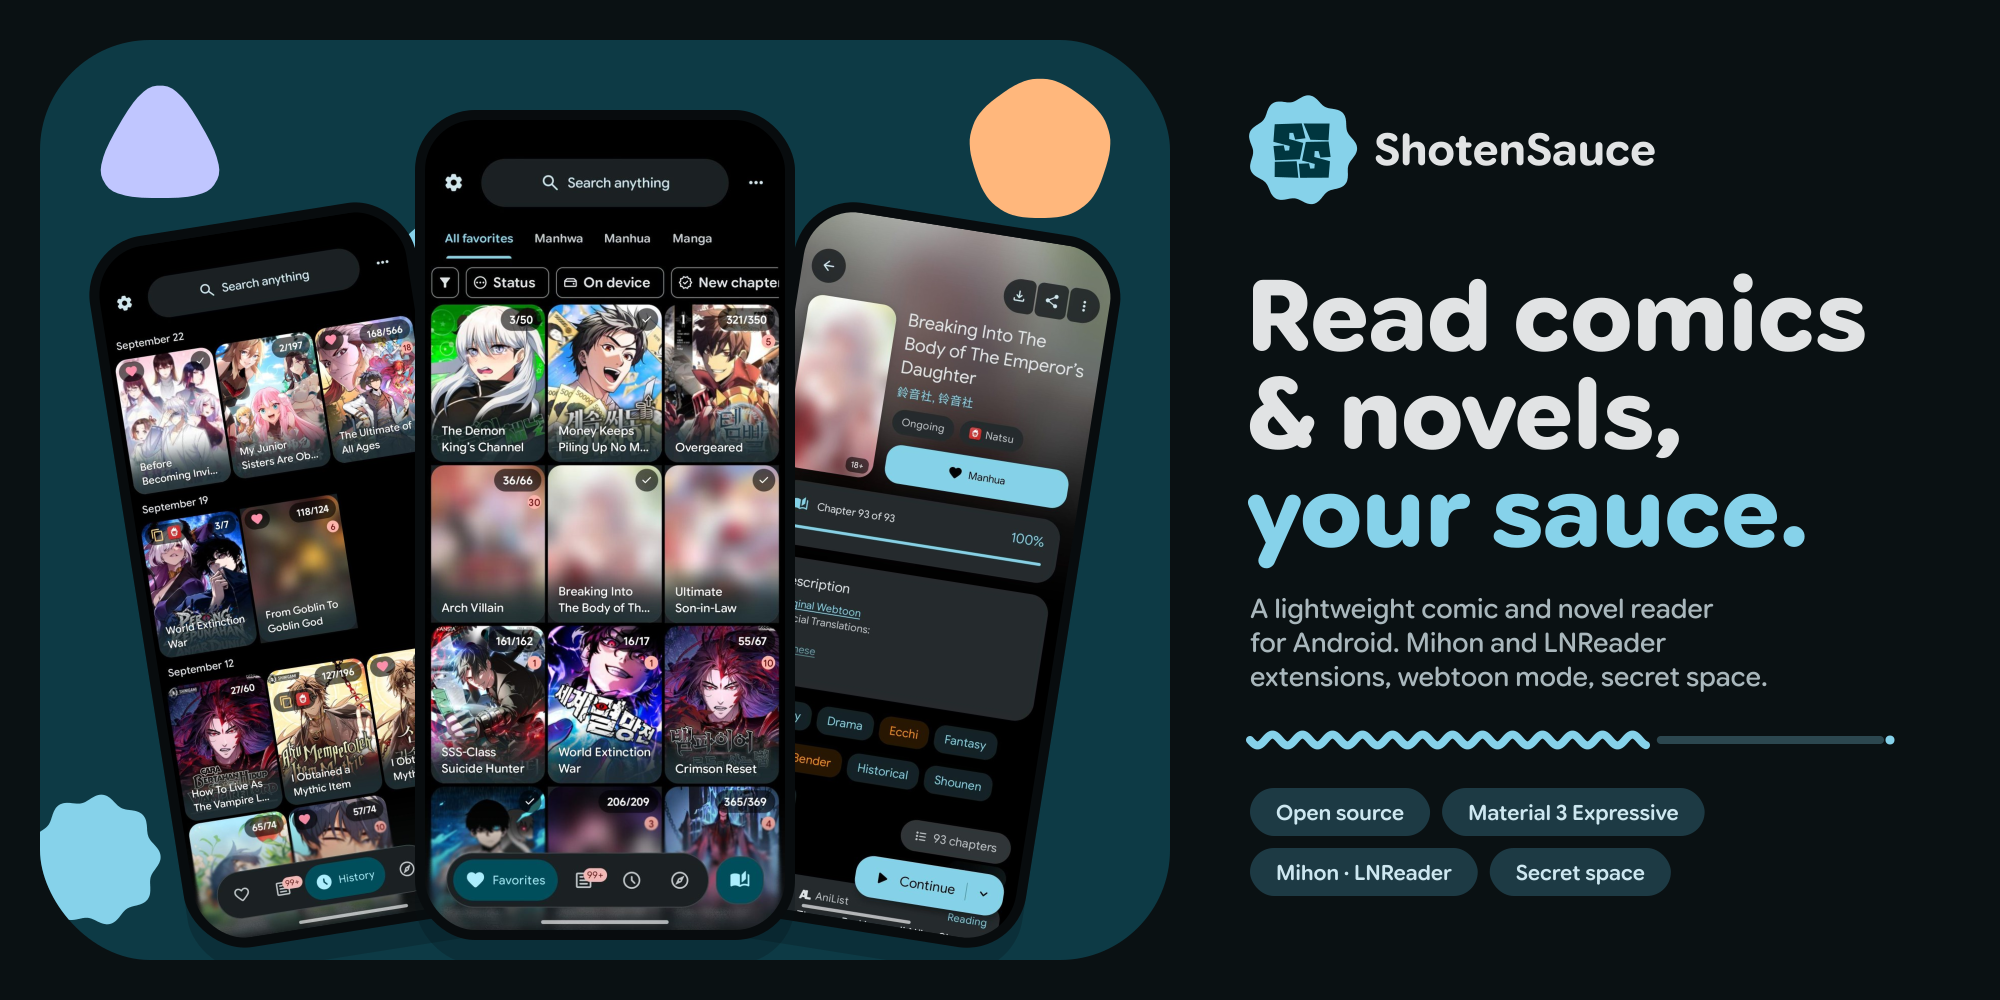
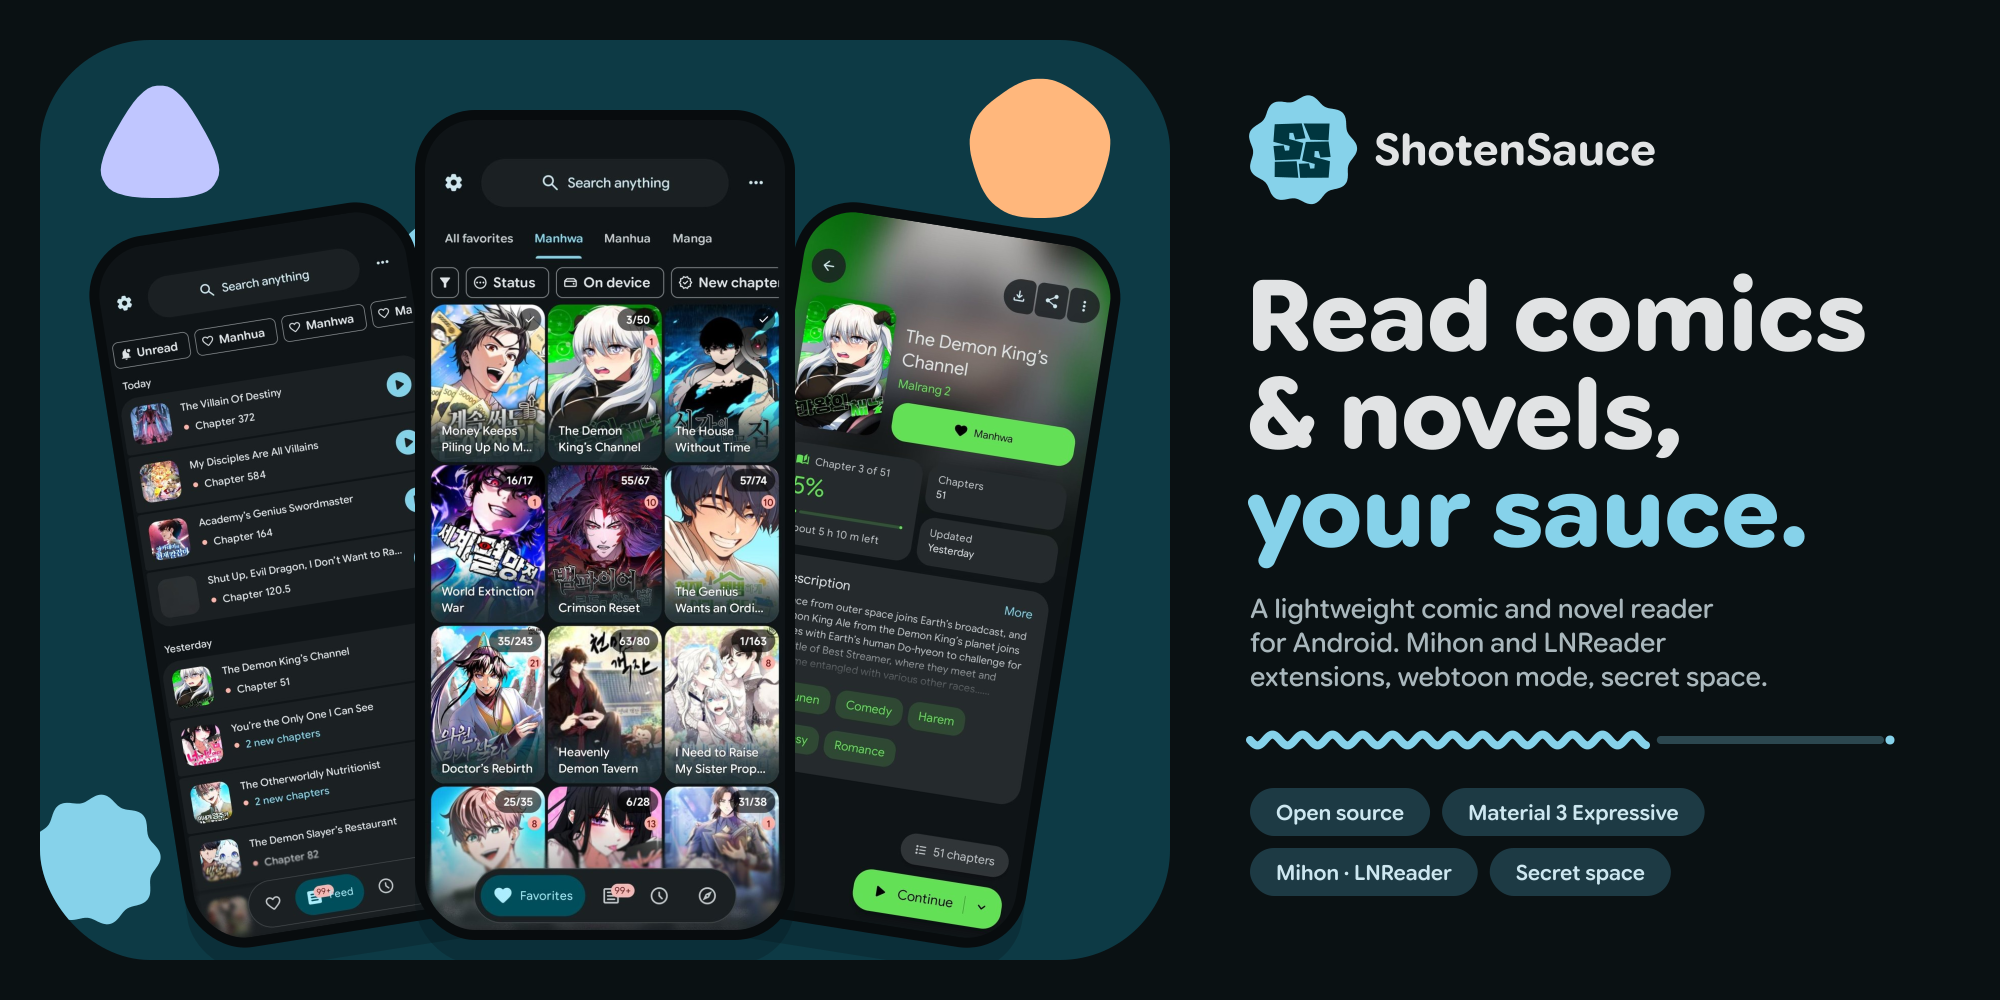
docs(readme): overhaul layout and update images

Changed region(s): [[0.031, 0.217, 0.558, 0.93]]

diff --git a/README.md b/README.md
@@ -5,11 +5,8 @@
 </p>
 
 <p align="center">
-  A lightweight, modern comic and novel reader for Android with a beautiful Material 3 Expressive design. Supports Mihon and LNReader extensions.
-</p>
-
-<p align="center">
-  <sub>ShotenSauce is a fork of <a href="https://github.com/HuzaifaKhalid1311/DropSauce">DropSauce</a> by HuzaifaKhalid1311.</sub>
+  A fast, modern manga and novel reader for Android, built with Material 3 Expressive.<br>
+  Works with Mihon and LNReader extensions.
 </p>
 
 <p align="center">
@@ -26,20 +23,32 @@
 </p>
 
 <p align="center">
-  <a href="https://github.com/RoTatsuLabs/ShotenSauce/releases/latest"><strong>Download APK</strong></a>
-  |
-  <a href="https://github.com/HuzaifaKhalid1311/DropSauce"><strong>Upstream (DropSauce)</strong></a>
+  <a href="https://github.com/RoTatsuLabs/ShotenSauce/releases/latest"><strong>Download</strong></a>
+  &nbsp;·&nbsp;
+  <a href="CHANGELOG.md"><strong>Changelog</strong></a>
+  &nbsp;·&nbsp;
+  <a href="https://github.com/HuzaifaKhalid1311/DropSauce"><strong>Upstream</strong></a>
+</p>
+
+<p align="center">
+  <a href="#about">About</a> ·
+  <a href="#features">Features</a> ·
+  <a href="#install">Install</a> ·
+  <a href="#faq">FAQ</a> ·
+  <a href="#project-structure">Structure</a> ·
+  <a href="#credits">Credits</a>
 </p>
 
 ---
 
 ## About
 
-ShotenSauce is a free and open-source comic and novel reader for Android, built to feel quick, clean, and comfortable to use with a lot of features
+ShotenSauce is a free, open-source reader for manga, webtoons and novels on Android. It aims to feel quick and clean while still packing in a lot of features.
 
-ShotenSauce is a personal fork, built for my own use and shared as is. It takes no issues or pull requests, and I give no support, no guarantees, and no promise of updates or fixes.
+It is a personal fork of [DropSauce](https://github.com/HuzaifaKhalid1311/DropSauce), built for my own use and shared as is. It takes no issues or pull requests, and comes with no support, no guarantees and no promise of updates or fixes.
 
-⭐Please give the repo a star if you like the project. It helps more people find it.🌟
+> [!NOTE]
+> This app code is mostly written with AI assistance (Claude), directed and reviewed by me. If you are not comfortable with that, this project may not be for you.
 
 ## Screenshots
 
@@ -47,62 +56,106 @@ ShotenSauce is a personal fork, built for my own use and shared as is. It takes 
   <img src="assets/app-features.png" alt="ShotenSauce features" width="100%" />
 </p>
 
-## Highlights
-- Full novel reading support alongside manga, including offline EPUB file importing.
-- Multi-source extension engine supporting LNReader JS plugins and Tsundoku APK extensions.
-- Lightweight Android-first experience with a modern, polished interface.
-- Rich extension support with library, reading, history, bookmarks, tracking, stats, and settings tools.
-- Google Drive sync, local backup/restore, and in-app updates to keep your setup moving with you.
-- Supports Kotatsu and Mihon backup restoration alongside google drive sync
-- Free and open-source under the GPLv3 license.
+## Features
+
+| | |
+|---|---|
+| 📖 **Reading** | Manga, webtoon and novel reader with configurable behavior, haptics and zoom gestures. Offline EPUB import, and PDF import that turns PDFs into readable CBZ chapters. |
+| 🔌 **Sources** | Native sources, LNReader JS plugins, and Mihon and Tsundoku APK extensions. |
+| 🗂 **Library** | Favourites with categories, history, bookmarks (with colour labels), reading stats, and a find-duplicates tool. |
+| 📡 **Tracking** | Shikimori, AniList, MyAnimeList, Kitsu and MangaBaka. Auto-track favourites, smart reading status, and bind tracker statuses to categories. |
+| ⬇ **Downloads** | Queue with filters and drag to reorder, parallel pages, charging-only mode, smart retries, and download-ahead while you read. |
+| 💾 **Backup** | Local backup and restore, scheduled backups, Telegram backups with selectable contents, and Kotatsu and Mihon backup restore. |
+| 🎨 **Look** | Material 3 Expressive details page, colours taken from the cover, custom fonts, and home screen widgets. |
+| 🔒 **Privacy** | Secret space (hidden library, history, bookmarks and downloads behind a PIN or fingerprint), app lock, and blurred sensitive covers. |
 
 <details>
-<summary><strong>ShotenSauce Features</strong></summary>
+<summary><strong>More details</strong></summary>
 
-- Secret space: a hidden library, history, bookmarks and downloads behind a PIN or fingerprint.
-- Download manager: queue, filters, drag to reorder, parallel pages, charging-only, smart retries, per-source speed, and download-ahead while you read.
-- Auto-track favourites: favourites are tracked on every tracker you use, with your reading progress. Unsure matches wait for your review.
-- Tracker import: pull covers, titles, descriptions, genres and more from a tracker into a manga, field by field.
-- Blur sensitive covers: 18+ titles and genres you pick are blurred everywhere. Hold a cover to peek.
-- Custom fonts: import your own .ttf or .otf fonts and use them across the whole app.
-- Telegram and selective backups: send backups to your own Telegram chat and choose what goes in them.
+- **Tracker import:** pull covers, titles, descriptions and genres from a tracker into a title, field by field.
+- **Auto-track:** favourites are tracked on every tracker you use together with your reading progress. Uncertain matches wait for your review.
+- **Smart categories:** when a title's status changes on a tracker, it moves to the category you bound to that status.
+- **Blur sensitive covers:** 18+ titles and genres you pick are blurred everywhere. Hold a cover to peek.
+- **Custom fonts:** import your own `.ttf` or `.otf` fonts and use them across the app.
+- **Backups in the background:** every backup and restore runs with a progress notification and a cancel button.
+- **Updates:** in-app updates, with APKs also published on GitHub Releases.
+
+</details>
+
+The full list of changes is in the [changelog](CHANGELOG.md).
+
+## Install
+
+1. Open the [latest release](https://github.com/RoTatsuLabs/ShotenSauce/releases/latest).
+2. Download the newest `ShotenSauce` APK.
+3. Install it on a device running Android 8.0 or newer.
+4. Add a source or extension repository, then start reading.
+
+Android may ask you to allow installs from your browser or file manager. That is normal for APKs downloaded outside the Play Store.
+
+## FAQ
+
+<details>
+<summary><strong>Does ShotenSauce include manga or novels?</strong></summary>
+
+No. There is no built-in content. Sources come from external libraries, JS plugins or repositories that you add yourself.
 
 </details>
 
 <details>
-<summary><strong>Features</strong></summary>
+<summary><strong>Is it free?</strong></summary>
 
-- Comfortable manga, webtoon and novel reading experience with configurable reader behavior, haptics, and zoom gestures.
-- EPUB novel importing for offline reading.
-- Extensive extension ecosystem supporting native extensions, LNReader JS plugins, and Tsundoku APK extensions.
-- Reverse tracking integration with a redesigned tracking menu.
-- Favorites, history, bookmarks, tracking, stats, and categories to keep your library organized.
-- Google Drive sync for library, history, bookmarks, tracking, stats, settings, and covers.
-- Local backup and restore system for moving or protecting your setup.
-- Material 3 Expressive details page for clear and quick overview
-- New onboarding/welcome flow with sync and restore setup.
-- Android widgets for continue reading, favorites, and reading stats.
-- PDF import support, converting PDFs into readable CBZ chapters.
-- App lock with biometric or device credential support.
-- Downloads for offline reading when a source supports it.
-- In-app updates, with APKs also published through GitHub Releases.
+Yes. ShotenSauce is free and open source under the GPLv3 license.
 
 </details>
 
 <details>
-<summary><strong>Recent improvements</strong></summary>
+<summary><strong>How do updates work?</strong></summary>
 
-- Full novel support with offline EPUB file importing.
-- LNReader JS plugin and Tsundoku APK extension support.
-- Interactive zoom gestures in novel reading mode.
-- Added reverse tracking and refreshed tracking menu design.
-- New popup animations across app flows.
-- Redesigned list options, filter menu, and progress tracking.
-- Minor UI improvements, edge-case crash fixes, and release build cleanups.
+Update from inside the app, or install the latest APK from the Releases page.
 
 </details>
 
-## Star History
+<details>
+<summary><strong>Can I move over from Kotatsu, DropSauce or Mihon?</strong></summary>
+
+Yes. Restore a Kotatsu or Mihon backup from the Backup screen.
+
+</details>
+
+## Project structure
+
+```plaintext
+app/src/main/
+├── kotlin/org/koitharu/kotatsu/
+│   ├── core/          # Database, network, parser, preferences, UI and utilities
+│   ├── main/          # App entry points and main screens
+│   ├── reader/        # Manga and novel reader
+│   ├── details/       # Title details, chapters and metadata
+│   ├── explore/       # Browse and discovery
+│   ├── search/        # Search, with a Manga/Novel toggle
+│   ├── favourites/    # Favourites, categories and duplicates
+│   ├── bookmarks/     # Bookmarks and colour labels
+│   ├── history/       # Reading history and progress
+│   ├── download/      # Offline downloads and queue
+│   ├── extensions/    # Extension browsing, JS plugins, APK extensions
+│   ├── lnreader/      # LNReader JS plugin integration
+│   ├── mihon/         # Mihon and Tsundoku extension integration
+│   ├── backup/        # Backup and restore
+│   ├── scrobbling/    # Tracker services, auto-track and smart categories
+│   ├── tracker/       # New chapter checks
+│   ├── stats/         # Reading statistics
+│   ├── secret/        # Secret space
+│   ├── widget/        # Home screen widgets
+│   └── settings/      # Settings screens
+└── res/
+    ├── drawable*/     # Icons and backgrounds
+    ├── layout*/       # XML layouts
+    ├── values*/       # Strings, colors, themes and translations
+    └── xml/           # Android XML configuration
+```
+
+## Star history
 
 <a href="https://www.star-history.com/?repos=rotatsulabs%2Fshotensauce&type=date&releases=&legend=bottom-right">
  <picture>
@@ -112,76 +165,21 @@ ShotenSauce is a personal fork, built for my own use and shared as is. It takes 
  </picture>
 </a>
 
-## Install
-
-1. Open the [latest GitHub release](https://github.com/RoTatsuLabs/ShotenSauce/releases/latest).
-2. Download the newest `ShotenSauce` APK.
-3. Install it on a compatible Android device.
-4. Add your preferred source or extension repository, then start reading.
-
-Android may ask you to allow installs from your browser or file manager. That is normal for APKs downloaded outside the Play Store.
-
-## FAQ
-
-### Does ShotenSauce include manga or novels?
-> No. ShotenSauce does not include built-in content. Sources are provided through external libraries, JS plugins, or repositories added by users.
-
-### Is ShotenSauce free?
-> Yes. ShotenSauce is free and open source under the GPLv3 license.
-
-### How do updates work?
-> ShotenSauce supports in-app updates, and release APKs are also published on GitHub. You can update from inside the app or install the latest APK from the Releases page.
-
-## Project structure
-
-```plaintext
-app/src/main/
-├── kotlin/org/koitharu/kotatsu/
-│   ├── core/          # Shared database, network, parser, preferences, UI, and utility code
-│   ├── main/          # App entry points, main activity, and app-level screens
-│   ├── reader/        # Manga and novel reader UI and reading behavior
-│   ├── details/       # Manga and novel details, chapters, metadata, and related services
-│   ├── explore/       # Browse and discovery screens
-│   ├── search/        # Search screens and search flows (with Manga/Novel toggle)
-│   ├── favourites/    # Favorites and library-facing flows
-│   ├── history/       # Reading history and progress
-│   ├── download/      # Offline downloads and download queue
-│   ├── extensions/    # Extension browsing, JS plugins, and APK extension management
-│   ├── lnreader/      # LNReader JS plugin integration
-│   ├── mihon/         # Mihon & Tsundoku APK extension integration
-│   ├── backup/        # Local backup and restore
-│   ├── sync/          # Sync data, domain, UI, and workers
-│   ├── tracker/       # Tracking integrations and reverse tracking
-│   ├── widget/        # Android home screen widgets
-│   └── settings/      # Settings screens and preferences
-└── res/
-    ├── drawable*/     # Icons, backgrounds, and app artwork
-    ├── layout*/       # XML screens, widgets, and reusable layouts
-    ├── mipmap*/       # Launcher icons
-    ├── values*/       # Strings, colors, themes, and translations
-    └── xml/           # Android XML configuration
-```
-
 ## Credits
 
-ShotenSauce is a fork of [DropSauce](https://github.com/HuzaifaKhalid1311/DropSauce) by HuzaifaKhalid1311, and exists because of the work already done by the open-source Android manga reader community.
+ShotenSauce is a fork of [DropSauce](https://github.com/HuzaifaKhalid1311/DropSauce) by HuzaifaKhalid1311, and exists because of the open-source Android manga reader community. Thanks to the developers of [Kotatsu](https://github.com/KotatsuApp/Kotatsu), [LNReader](https://github.com/LNReader/lnreader) and [Mihon](https://github.com/mihonapp/mihon) for the ideas, code and source ecosystem behind it.
 
-Special thanks to the original [Kotatsu](https://github.com/KotatsuApp/Kotatsu) developers, [LNReader](https://github.com/LNReader/lnreader) developers, and the [Mihon](https://github.com/mihonapp/mihon) developers/community for the ideas, code, source ecosystem, and long-running maintenance work that helped shape projects like this.
+These projects also inspired features. They were written for this app, and their code is not copied from them.
+
+- [Hyoukan](https://github.com/PineappleTwilight/hyoukan): smart categories bound to tracker status, bookmark colours with a colour filter, Find duplicates, and the database integrity check with rolling snapshots
+- [AniZen](https://github.com/salmanbappi/AniZen): a sturdier downloader, with no retries on dead links, retry jitter and a free-space check
 
 ## License
 
 [![GNU GPLv3 Image](https://www.gnu.org/graphics/gplv3-127x51.png)](http://www.gnu.org/licenses/gpl-3.0.en.html)
 
-<div align="left">
-
-All programs from the ShotenSauce project (a fork of DropSauce) are free, open-source programs under the GPL license. You may copy, distribute, and modify the software as long as you keep track of changes/dates in the source files. Any modifications to the software, including code licensed under the GPL (via a compiler), must also be provided under the GPL license.
-
-</div>
+All programs from the ShotenSauce project (a fork of DropSauce) are free, open-source programs under the GPL license. You may copy, distribute and modify the software as long as you keep track of changes and dates in the source files. Any modification of the software, including code licensed under the GPL (via a compiler), must also be provided under the GPL license.
 
 ## Disclaimer
 
-<div align="left">
-
-The developer(s) of this application do not have any affiliation with the content providers available. If there is any content, it is provided by external libraries added or imported by users; the application itself does not include any built-in content.
-
-</div>
+The developers of this application have no affiliation with the content providers available through it. Any content comes from external libraries added or imported by users; the application itself includes no built-in content.
